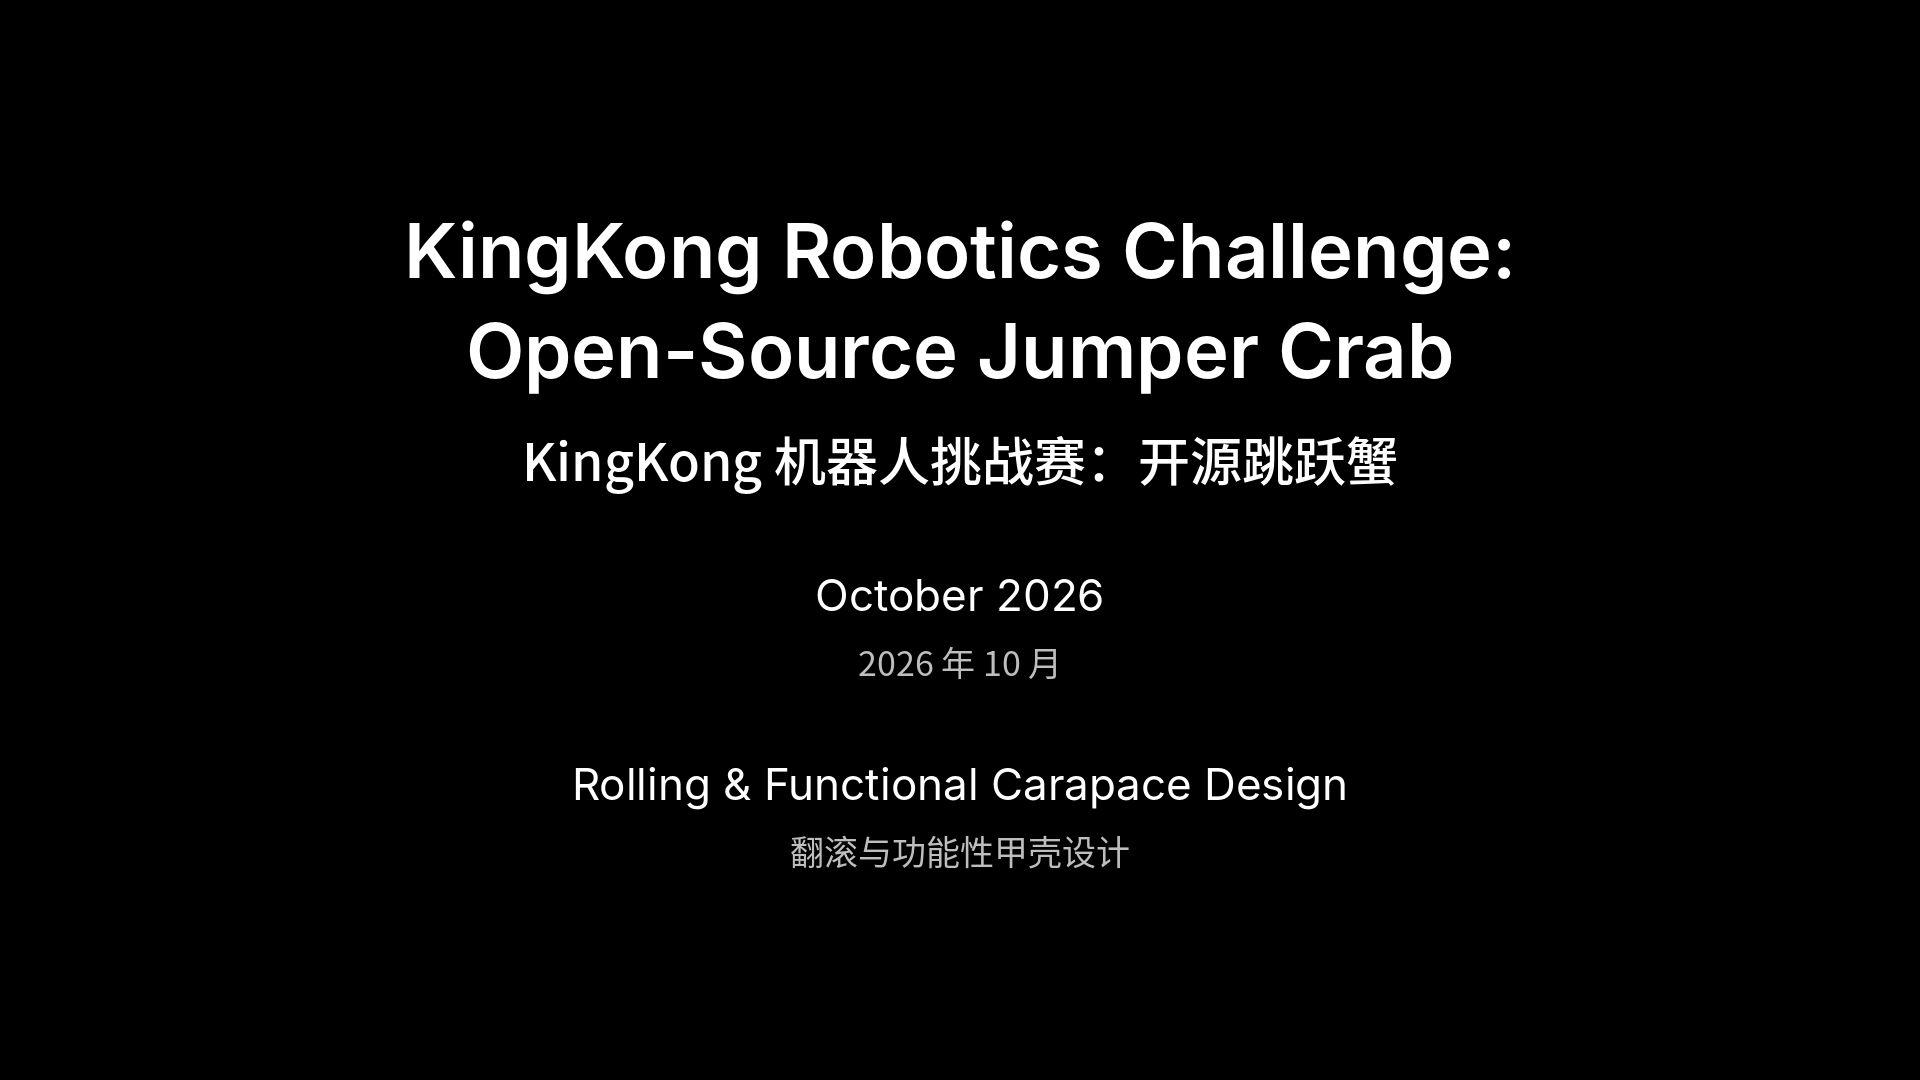
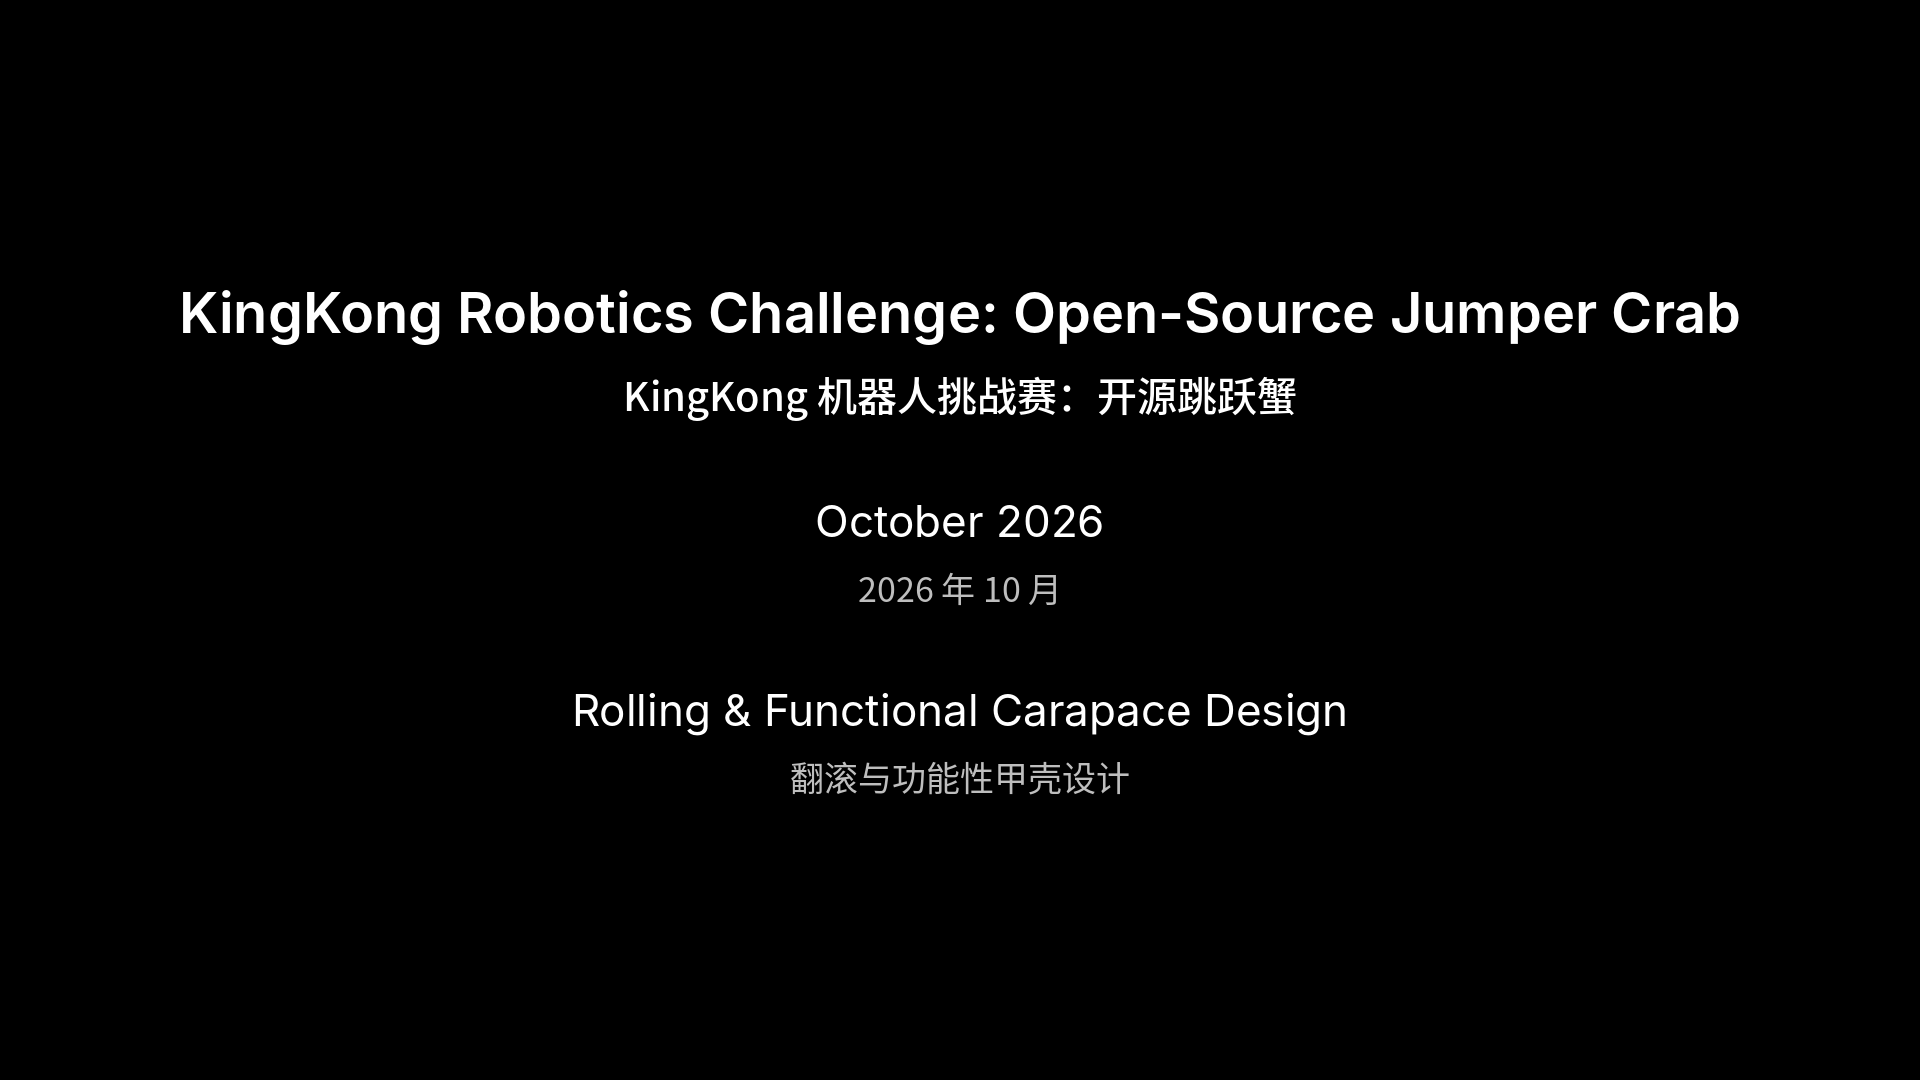
Footage title slides: smaller title size (56 / 40)
Claude-Session: https://claude.ai/code/session_018e6UqHzaryVWYHuwL5wCvh

Changed region(s): [[0.0938, 0.1833, 0.9062, 0.6722], [0.2812, 0.7028, 0.6875, 0.825]]

diff --git a/studies/footage/make_slide.py b/studies/footage/make_slide.py
@@ -16,8 +16,8 @@ or, for a statement slide,
     {"paragraphs": [{"en": str, "zh": str?, "style": "body" | "sub" | "title"}, ...],
      "gap": px?, "width": px?}
 
-each paragraph wrapped and centred, its Chinese beneath it; "title" is a stats
-slide's title size, "sub" between that and the default "body".
+each paragraph wrapped and centred, its Chinese beneath it; "title" largest,
+"sub" between that and the default "body".
 
 A note row is drawn smaller, grey and italic (a comparison line). 1920x1080; Inter
 for Latin, Noto Sans CJK SC for Chinese.
@@ -41,14 +41,13 @@ def statement(spec):
     img = Image.new("RGB", (W, H), (0, 0, 0))
     dr = ImageDraw.Draw(img)
     width = spec.get("width", 1320)
-    # style -> (English font, Chinese font, Chinese colour); "title" is the size and
-    # weight of a stats slide's title.
+    # style -> (English font, Chinese font, Chinese colour).
     fonts = {"body": (ImageFont.truetype(INTER.format("Regular"), 32),
                       ImageFont.truetype(CJK.format("Regular"), 25, index=CJK_SC), DIM),
              "sub": (ImageFont.truetype(INTER.format("Regular"), 44),
                      ImageFont.truetype(CJK.format("Regular"), 34, index=CJK_SC), DIM),
-             "title": (ImageFont.truetype(INTER.format("SemiBold"), 76),
-                       ImageFont.truetype(CJK.format("Medium"), 52, index=CJK_SC), WHITE)}
+             "title": (ImageFont.truetype(INTER.format("SemiBold"), 56),
+                       ImageFont.truetype(CJK.format("Medium"), 40, index=CJK_SC), WHITE)}
 
     def units(text, by_char):
         """English by word; Chinese by clause (after ，、。) where a clause fits, else
